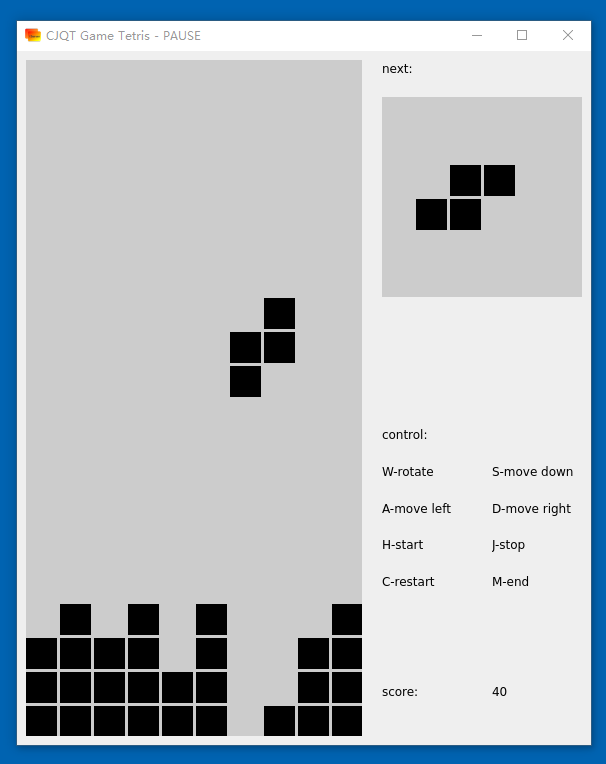
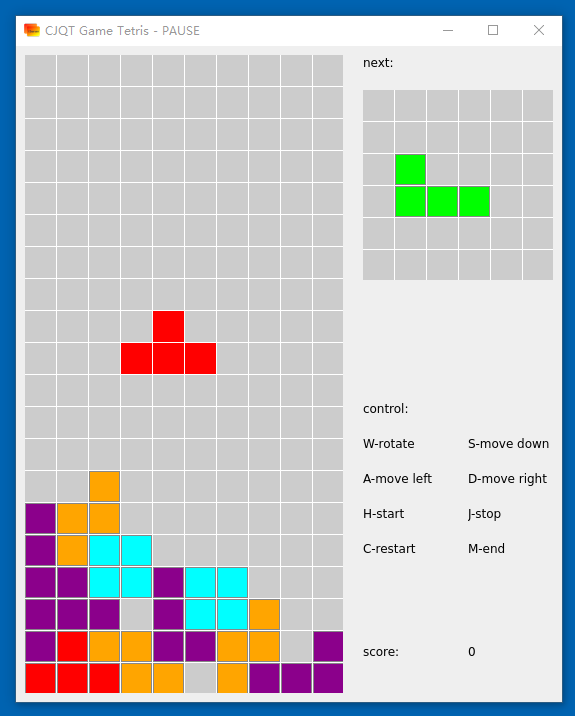
完善俄罗斯方块示例

diff --git a/README.md b/README.md
@@ -115,13 +115,22 @@ import qt.widgets.*
 
 main() {
     QApplication.create()
-    let win = QWidget()
+    let win = QMainWindow()
     win.setWindowTitle("CJQT Example")
     win.resize(400, 300)
 
     let label = QLabel(win)
-    label.setGeometry(150, 150, 100, 24)
+    label.setGeometry(120, 100, 200, 40)
     label.setText("Hello CJQT!")
+    label.setFontSize(24)
+    label.setFontColor(QColor.Red)
+
+    let button = QPushButton(win)
+    button.setGeometry(150, 180, 100, 24)
+    button.setText("button")
+    button.connect {
+        label.hide()
+    }
 
     win.show()
 
@@ -142,58 +151,6 @@ main() {
 
 <p align="center">
 <img src="./doc/assets/qt_demo.png" width="60%" >
-</p>
-
-### QML示例
-
-创建hello.qml文件
-
-```qml
-import QtQuick 2.2
-import QtQuick.Controls 1.4
-
-ApplicationWindow {
-    id: app
-    title: "CJQT QRC Example"
-    width: 600; height: 400
-    color: "lightgray"
-    Component.onCompleted: visible = true
-
-    Text {
-        text: "Hello CJQT!\nbinding by cangjie"
-        y: 30
-        anchors.horizontalCenter: app.contentItem.horizontalCenter
-        font.pointSize: 24; font.bold: true
-    }
-}
-```
-创建main.cj文件
-```cangjie
-import qt.gui.*
-import qt.widgets.*
-
-main() {
-    QApplication.create()
-    let engine = QQmlApplicationAngine()
-    engine.loadUrl("./src/hello.qml")
-
-    QApplication.exec()
-
-    engine.delete()
-    QApplication.delete()
-}
-```
-
-执行命令如下：
-
-```shell
-./run.sh
-```
-
-执行效果：
-
-<p align="center">
-<img src="./doc/assets/qml_demo.png" width="60%" >
 </p>
 
 
